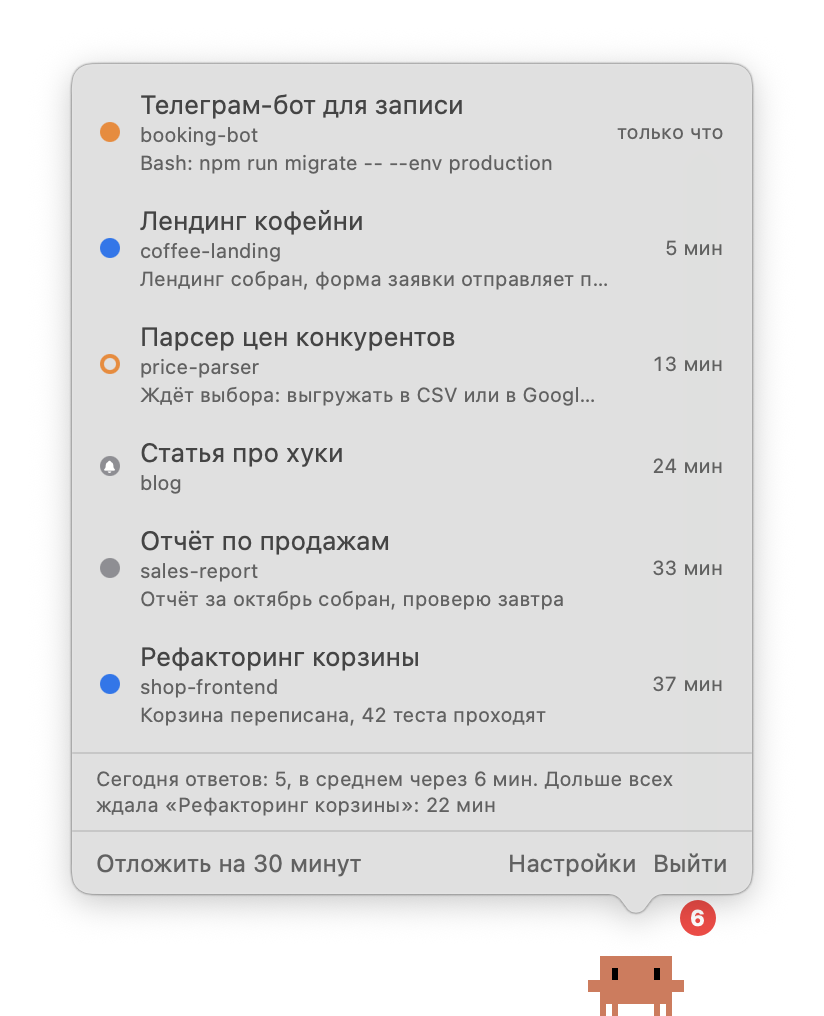
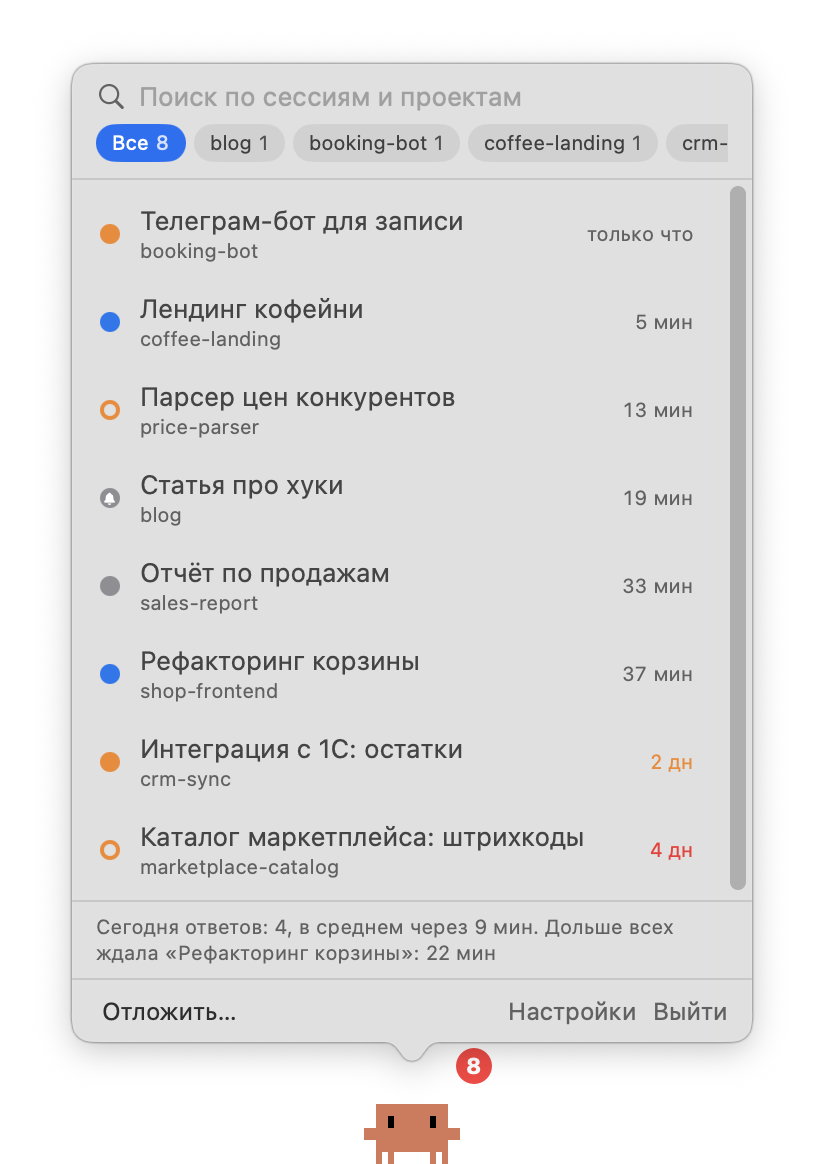
Версия 0.2.2
Новые скриншоты списка (поиск, проекты, срок цветом), настроек и пузыря,
README про новое в 0.2.2.

diff --git a/README.md b/README.md
@@ -22,8 +22,10 @@ https://github.com/user-attachments/assets/baba8fa6-3eba-478a-84c3-d66fe0d9cad1
 
 <img src="docs/media/list.png" width="392" align="right" alt="Список сессий Клодика">
 
-- **Список по клику.** Клик по Клодику открывает список сессий, которым вы нужны: свежие сверху. Клик по строке открывает именно эту сессию в Claude.
-- **Что просит сессия.** Под названием видно, что именно ей нужно: «Bash: npm run migrate», имя файла, текст вопроса или итог хода от Claude. Можно решить, что срочно, не переключаясь.
+- **Список по клику.** Клик по Клодику открывает список сессий, которым вы нужны: свежие сверху, каждый раз с самого начала. Клик по строке открывает именно эту сессию в Claude.
+- **Поиск и проекты.** Когда сессий восемь и больше, сверху поиск и кнопки проектов. Поиск сразу в фокусе: печатайте «ламода», и останутся сессии Lamoda, русские слова ищутся и латиницей.
+- **Что просит сессия.** Наведите курсор на строку: слева появится окошко с тем, что ей нужно, — «Bash: npm run migrate», имя файла или итог хода от Claude. Если Claude задал вопрос с вариантами, в окошке будут вопрос и все варианты с пояснениями, как в самом Claude. Отвечать — в Claude, клик по строке откроет сессию.
+- **Итоги по-русски.** Claude иногда пишет итог хода по-английски. Клодик переводит его прямо на Mac встроенным переводчиком macOS, без интернета. Нужна macOS 26 и один раз скачанные языки — кнопка в настройках.
 - **⌥⌘K — к следующей сессии.** Открывает сессию, которая дольше всех ждёт ответа. Нажмите ещё раз — следующую. Очередь можно разобрать, не трогая мышь.
 - **Точки как в Claude.**
   - оранжевая — Claude ждёт ответа: просит разрешение или задал вопрос;
@@ -31,14 +33,18 @@ https://github.com/user-attachments/assets/baba8fa6-3eba-478a-84c3-d66fe0d9cad1
   - синяя — закончила работу, вы её ещё не открывали;
   - серая — вы сами отметили её непрочитанной в Claude;
   - серая с колокольчиком — ваша метка «Напомнить» в Клодике.
+- **Срок цветом.** Время у сессий, которые ждут ответа, оранжевое после суток и красное после трёх дней: застрявшие решения видно сразу.
 - **Бейдж над головой.** Сколько сессий в списке. Красный, если хоть одна ждёт ответа.
 - **Напоминает и успокаивается.** Прыгает из-за свежих сессий, которые ждут ответа. Из-за остальных изредка машет. Пока Claude открыт на переднем плане, молчит.
-- **Пузыри.** «Ждёт ответа: …» и «Готово: …», когда сессия только что изменилась.
+- **Пузыри как в комиксах.** Когда сессия закончила работу или ждёт ответа, над Клодиком появляется облачко: название сессии и что она сделала или просит. Висит 10–20 секунд, под курсором не гаснет, клик открывает сессию.
+- **Утренняя сводка.** Раз в день, когда вы утром садитесь за Mac: «Ждут ваших решений: 5, дольше всех „Интеграция с 1С“: 2 дня». Клик открывает самую давнюю.
 - **Правый клик по строке.** «Напомнить» — Клодик будет напоминать о сессии, пока вы её не откроете. «Скрыть до следующей активности» — убрать из списка.
 - **Сводка за день.** Внизу списка: на сколько запросов вы сегодня ответили, как быстро в среднем и какая сессия ждала дольше всех.
-- **Отложить на 30 минут**, если нужно сосредоточиться.
+- **Отложить** на 30 минут, если нужно сосредоточиться, или до 9 утра, чтобы вечером и ночью Клодик молчал.
 
 <br clear="right">
+
+<p align="center"><img src="docs/media/bubble.png" width="333" alt="Пузырь «Готово» над Клодиком"></p>
 
 ## Анимации
 
@@ -79,6 +85,7 @@ https://github.com/user-attachments/assets/baba8fa6-3eba-478a-84c3-d66fe0d9cad1
   - «Настойчиво» — раз в 30 секунд, через 2 минуты без остановки.
 - **⌥⌘K — к следующей сессии.** Можно выключить, если сочетание нужно другому приложению.
 - **Проверять новые версии на GitHub.** Раз в сутки; когда выходит новая версия, в списке появляется кнопка «Скачать».
+- **Переводить итоги на русский.** Строка появляется, только если языки перевода macOS ещё не скачаны: кнопка «Скачать» просит macOS их загрузить. macOS может отложить загрузку на потом, быстрее скачать в «Язык и регион» → «Языки перевода».
 - **Точки в списке.** Подсказка, что значит каждый цвет.
 - **Claude Code.** Подключить или отключить хуки.
 
@@ -86,7 +93,7 @@ https://github.com/user-attachments/assets/baba8fa6-3eba-478a-84c3-d66fe0d9cad1
 
 ## Как это работает
 
-Клодик не отправляет ваши данные в интернет и ничего не пишет в сессии. Единственный запрос наружу: раз в сутки он спрашивает у GitHub номер последней версии, это выключается в настройках. О сессиях он узнаёт из трёх источников:
+Клодик не отправляет ваши данные в интернет и ничего не пишет в сессии. Единственный запрос наружу: раз в сутки он спрашивает у GitHub номер последней версии, это выключается в настройках. Перевод итогов идёт встроенным переводчиком macOS на самом Mac. О сессиях он узнаёт из трёх источников:
 
 - **Файлы сессий приложения Claude** в `~/Library/Application Support/Claude/claude-code-sessions`. Клодик только читает их и следит за изменениями через FSEvents, без опроса.
 - **Метки «непрочитано» из Claude** во внутреннем хранилище приложения (`Local Storage/leveldb`). Клодик только читает их. Формат нигде не описан: если он поменяется, Клодик просто перестанет видеть эти метки.
@@ -136,7 +143,12 @@ bash scripts/build-app.sh --install
 Klodik is my unofficial desktop pet for the Code tab of the Claude app on macOS. I run about ten sessions in parallel and kept missing the one that asked for permission half an hour ago. Klodik knows about every session that needs me and keeps reminding me until I deal with them.
 
 - **Click the pet** to see sessions that wait for you: orange means Claude needs an answer, blue means a finished turn you haven't opened, gray means you marked the session unread in Claude. Click a row to open exactly that session.
-- **See what each session asks for**: `Bash: npm run migrate`, a file name, the question text, or Claude's own turn summary.
+- **Search and projects**: with eight or more sessions, a search field and project buttons appear on top.
+- **Hover a row** to see what the session asks for: `Bash: npm run migrate`, a file name, Claude's turn summary, or Claude's question with all answer options. Answer in Claude; clicking the row opens the session.
+- **Comic-style bubbles** show what a session just finished or asks for; hover keeps them, click opens the session.
+- **Morning digest**: once a day, how many decisions wait for you and which one has waited longest. Waits over a day turn orange, over three days red.
+- **Snooze** for 30 minutes or until 9 a.m.
+- **Turn summaries in your language**: Claude sometimes writes them in the other language; Klodik translates on-device with macOS Translation (macOS 26+).
 - **⌥⌘K** opens the session that has waited longest; press again for the next one.
 - **Reminders** grow from a jump per minute to one every 30 seconds (Gentle, Normal and Insistent levels). It stays quiet while Claude is in front.
 - **Daily summary**: how many requests you answered today, how fast on average, and the longest wait.
